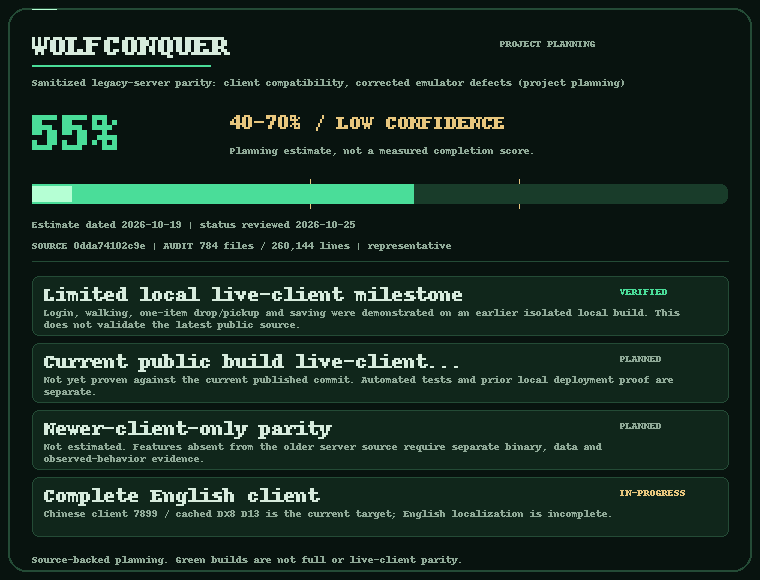
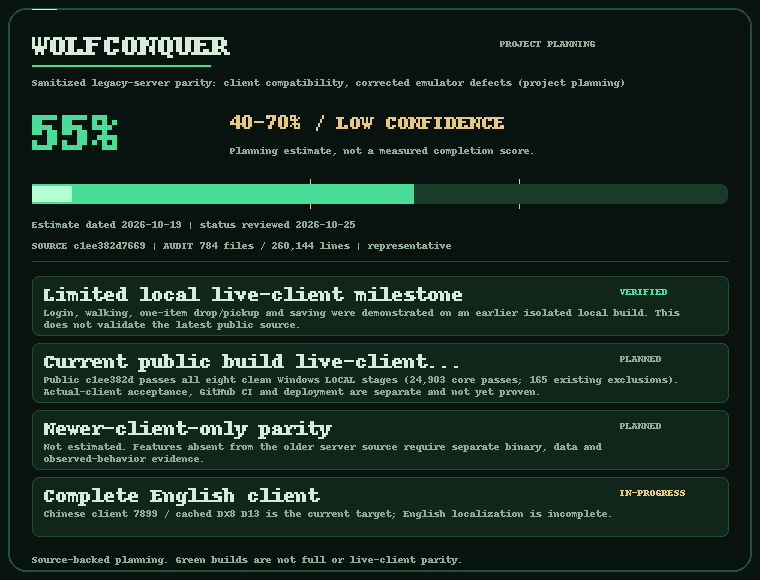
Refresh parity evidence after clean house and account checks [skip ci]

Changed region(s): [[0.0605, 0.6517, 0.8171, 0.6828], [0.0908, 0.4034, 0.1513, 0.4345], [0.8474, 0.6517, 0.8776, 0.6828]]

diff --git a/docs/parity/PROGRESS.md b/docs/parity/PROGRESS.md
@@ -8,7 +8,7 @@ Planning estimate: **55%**, range **40-70%**, **low confidence**. This is not a 
 
 Estimate date: **2026-10-19**. Status review date: **2026-10-25**. Reviewing the status does not refresh the estimate's age.
 
-Source commit: `0dda74102c9ebdba590eee0823227922961d2bf1` (short: `0dda74102c9e`).
+Source commit: `c1ee382d7669189037fd7d22618c283e7537ee38` (short: `c1ee382d7669`).
 
 Source audit: 2026-10-19; 784 files; 260,144 lines; target comparison: **representative**. Inventory counts are not implementation proof.
 
@@ -19,7 +19,7 @@ A green test suite is not a live-client, complete-English, or full-parity certif
 | Milestone | Status | Detail |
 | --- | --- | --- |
 | Limited local live-client milestone | verified | Login, walking, one-item drop/pickup and saving were demonstrated on an earlier isolated local build. This does not validate the latest public source. |
-| Current public build live-client acceptance | planned | Not yet proven against the current published commit. Automated tests and prior local deployment proof are separate. |
+| Current public build live-client acceptance | planned | Public c1ee382d passes all eight clean Windows LOCAL stages (24,903 core passes; 165 existing exclusions). Actual-client acceptance, GitHub CI and deployment are separate and not yet proven. |
 | Complete English client | in-progress | Chinese client 7899 / cached DX8 D13 is the current target; English localization is incomplete. |
 | Newer-client-only parity | planned | Not estimated. Features absent from the older server source require separate binary, data and observed-behavior evidence. |
 | Public full-client download and updates | in-progress | Signed updater and original-art launcher tooling are published. No official full-client package/feed is published yet. |
@@ -28,10 +28,10 @@ A green test suite is not a live-client, complete-English, or full-parity certif
 
 | Domain | Status | Implemented evidence | Remaining work |
 | --- | --- | --- | --- |
-| Transport, authentication and startup | partial | Packet, cipher, startup and replacement-service paths exist; a limited local gameplay milestone was demonstrated on an earlier build. | Prove the authenticated native account-to-world handoff and protected D13 login payload; complete ownership and loader joins, then verify the published build and staged endpoint migration with the actual client. |
-| Shared player, items and persistence | partial | Concrete containers/snapshots exist. Bag/warehouse moves persist complete item files before success with capacity, closure, PIN and escrow checks. Show prepares complete current-owner views; selected expired root locks commit before notification using issued server identity. Native component proof covers queue, spell/proficiency, profile/subclass/ranking/mail/nobility formats and owners; full SaveClient and production caller adoption remain unfinished. | Prove client warehouse cache/resynchronization behavior after committed-but-undelivered mutations. Finish one shared native player/item graph, login-loader, real login/save worker, production callers, legacy SQL/provider compatibility and restart recovery. |
+| Transport, authentication and startup | partial | Packet, cipher, startup and replacement-service paths exist. Legacy account envelopes now reject inconsistent bytes and malformed saved-credential admission; secure native handoff is still unproved. An earlier build demonstrated limited local gameplay. | Prove the authenticated native account-to-world handoff and protected D13 login payload; complete ownership and loader joins, then verify the published build and staged endpoint migration with the actual client. |
+| Shared player, items and persistence | partial | Concrete containers/snapshots exist. Bag/warehouse moves persist complete item files before success with capacity, closure, PIN and escrow checks. Show validates current-owner views; selected expired root locks commit before notification using issued identity. House saves validate complete owned graphs and use one-file atomic replacement/create. Native queue, spell/proficiency, profile, ranking, mail and nobility have component proof; full SaveClient/adoption remain unfinished. | Prove client warehouse cache/resynchronization behavior after committed-but-undelivered mutations. Finish one shared native player/item graph, login-loader, real login/save worker, production callers, legacy SQL/provider compatibility and restart recovery. |
 | Combat, monsters and death | partial | Substantial spell, damage, receive, equipment, monster AI, rewards and death behavior has focused automated proof. | Complete all callers, native arithmetic and shared RNG/order semantics, drops, lifetime ownership and multi-player/client scenarios. |
-| NPCs, shops, progression and housing | partial | Main dispatch, shops, forging, skill learning and durable progression/reward paths exist. Native quest definitions, eligibility, dialog and experience tables have component proof. House loading validates complete files before owner publication; authenticated housing adoption, entry and furniture gameplay remain unfinished. | Close deferred mutations and exact economy/persistence ordering; complete housing, occupants and furniture lifecycle. |
+| NPCs, shops, progression and housing | partial | Main dispatch, shops, forging, skill learning and durable progression/reward paths exist. Native quest definitions, eligibility, dialog and experience tables have component proof. House load/save validate complete files/graphs before publication; authenticated housing adoption, entry and furniture economy remain unfinished. | Close deferred mutations and exact economy/persistence ordering; complete housing, occupants and furniture lifecycle. |
 | Trade, social systems and events | partial | Managed Trade and player-booth exchanges use ordered pair commits and a shared journal. Tests cover complete closures, stale-file/escrow refusal, failure/retry, refunds/disconnect/restart and D13 Frame settlement. Warehouse composition preserves real 300-silver escrow: changed offered roots refund; unrelated withdrawals allow exchange. Guild/clan projections, selected actions, timers, score panels and some event state machines exist. | Complete native/social/event ownership and real-client multiplayer acceptance. Broader inventory/storage and booth raw-writer/delivery lifecycles, remaining guild/union actions, brackets, rewards, claims, reset, database parity and durable recovery remain open; scoped managed tests do not certify all transfers. |
 | Cross-server and casino workflows | partial | Group/travel metadata, startup packets, poker data and visibility surfaces exist. | Complete genuine transfer/return/session/economy ownership and failure handling; verify table rounds, betting, pot and settlement. |
 

diff --git a/FIXED-SOURCE-BUGS.md b/FIXED-SOURCE-BUGS.md
@@ -4,7 +4,22 @@ Engineering policy: [Sanitized Parity](docs/engineering/SANITIZED-PARITY.md).
 Started 2026-10-23. **Open items below are not fixed or verified claims.**
 Earlier passing tests may encode defects; test totals are not a safety certificate.
 
-## Latest accepted LOCAL integration gate — durable warehouse locks GREEN
+## Latest accepted LOCAL integration gate — house saves and account rejection GREEN
+
+Exact public `c1ee382d7669189037fd7d22618c283e7537ee38` was extracted from a
+tracked-only git archive (5410files) into a fresh owned Temp workspace. Local
+session14425/receipt20261026T025716423Z-2a4bf698 finished2026-10-26T03:02:13.3892318Z;
+all8sequential stages exited0. Actual terminal receipt, TRX counters/outcome groups
+and stage logs were inspected: core **24903passed/0failed**,165existing NotExecuted
+rows (25068total); updater305/305, launcher57/57, synthetic parsers20+13 (no HTTP/
+services). Build191warnings/0errors,52.09s. All157new account rows,54house rows and
+both corrected malformed-auth tests pass. Public source was normal-fast-forward
+pushed and exact remote verified only after this clean-source gate passed.
+This is Windows LOCAL proof, NOT GitHub CI, actual game-client login, complete
+English, housing/authenticated world-handoff completion, deployment or full parity.
+No running process/configuration, original save, protected client or endpoint changed.
+
+## Previous accepted LOCAL integration gate — durable warehouse locks GREEN
 
 Exact public `0dda74102c9ebdba590eee0823227922961d2bf1` was extracted from a
 tracked-only git archive (5398files) into a fresh owned Temp workspace. Local
@@ -1451,8 +1466,8 @@ This verifies offline Victory integration, not deployment or complete gameplay.
   MemoryManager/concurrent-buffer safety. A client depending on the removed
   malformed-credential shortcut must obtain genuine decoding/authentication; do not
   restore the bypass to pass a playtest. No running process/configuration, live
-  SQL/client, original save or endpoint changed. Full clean-public/CI acceptance
-  of this successor is pending; historical full LOCAL gate0dda7410 remains above.
+  SQL/client, original save or endpoint changed. Full clean-public LOCAL c1ee382d
+  is accepted above; current GitHub CI and real-client acceptance remain unproved.
 
 ### FSB-085: Reject a null required DBNpc conversion input explicitly
 
@@ -1500,12 +1515,12 @@ This verifies offline Victory integration, not deployment or complete gameplay.
   existing-different controls pass. No concurrent creator/uncertain/crash injection
   is claimed by those deterministic controls.
 - Limits: no current production caller of house Save is activated by this change.
-  Full clean-public successor/CI and live housing still need acceptance. This is
+  Full clean-public LOCAL successor is accepted above; CI/live housing still need acceptance. This is
   one-file replacement, not crash-safe furniture/economy coordination, SQL,
   power-loss durability, all raw-alias/ABA writers, hostile namespace/multiprocess
   safety, authenticated house entry or complete housing. Adjacent DBNpc null
   conversion is corrected separately inFSB085. No live/original-save/D:/routing
-  change. Latest full LOCAL gate remains exact0dda7410 above.
+  change. Latest full LOCAL gate is exactc1ee382d above.
 
 ### FSB-082: Persist expired warehouse locks before client notification
 
